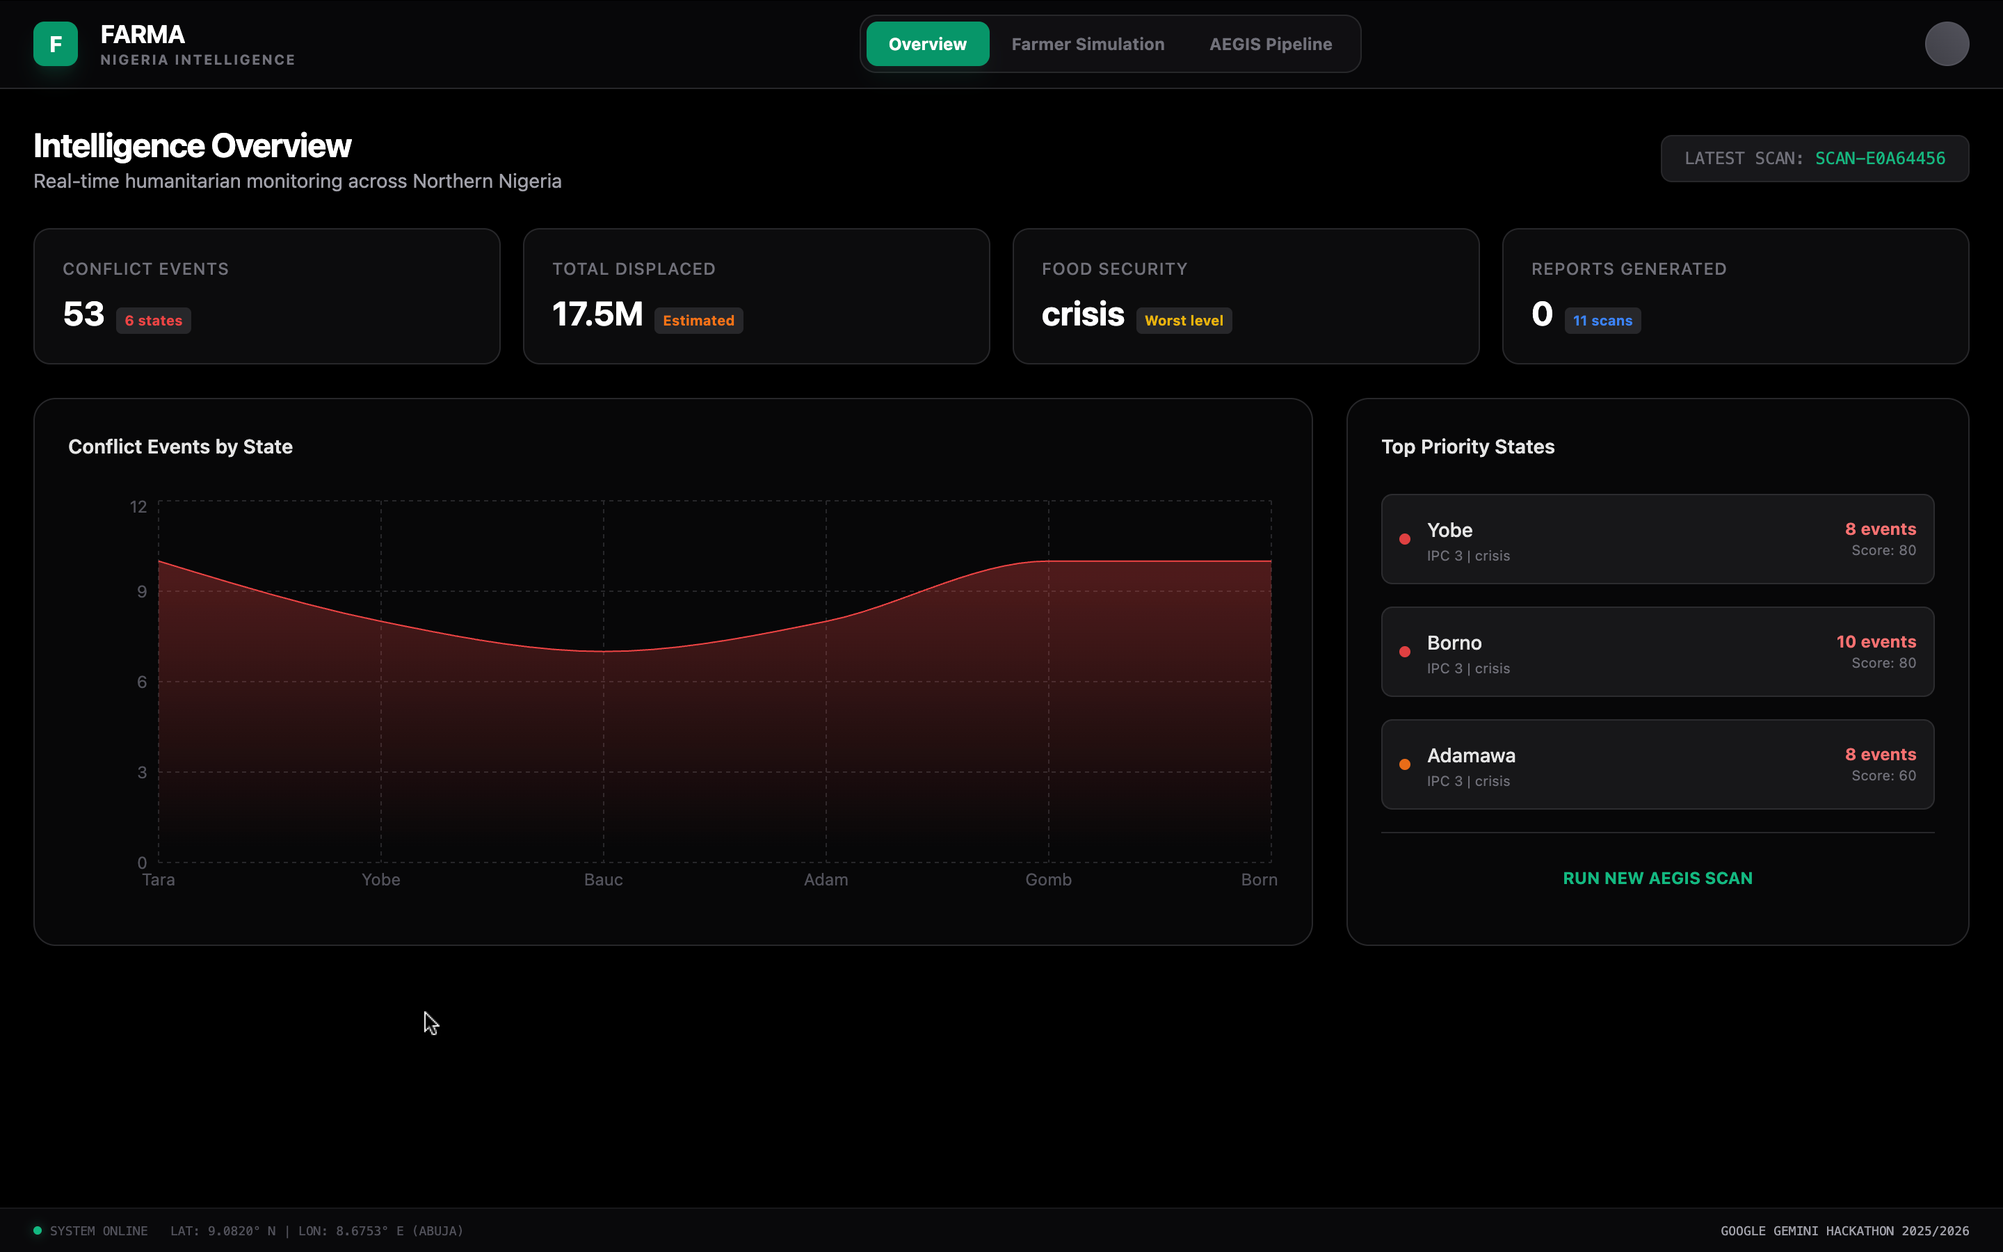
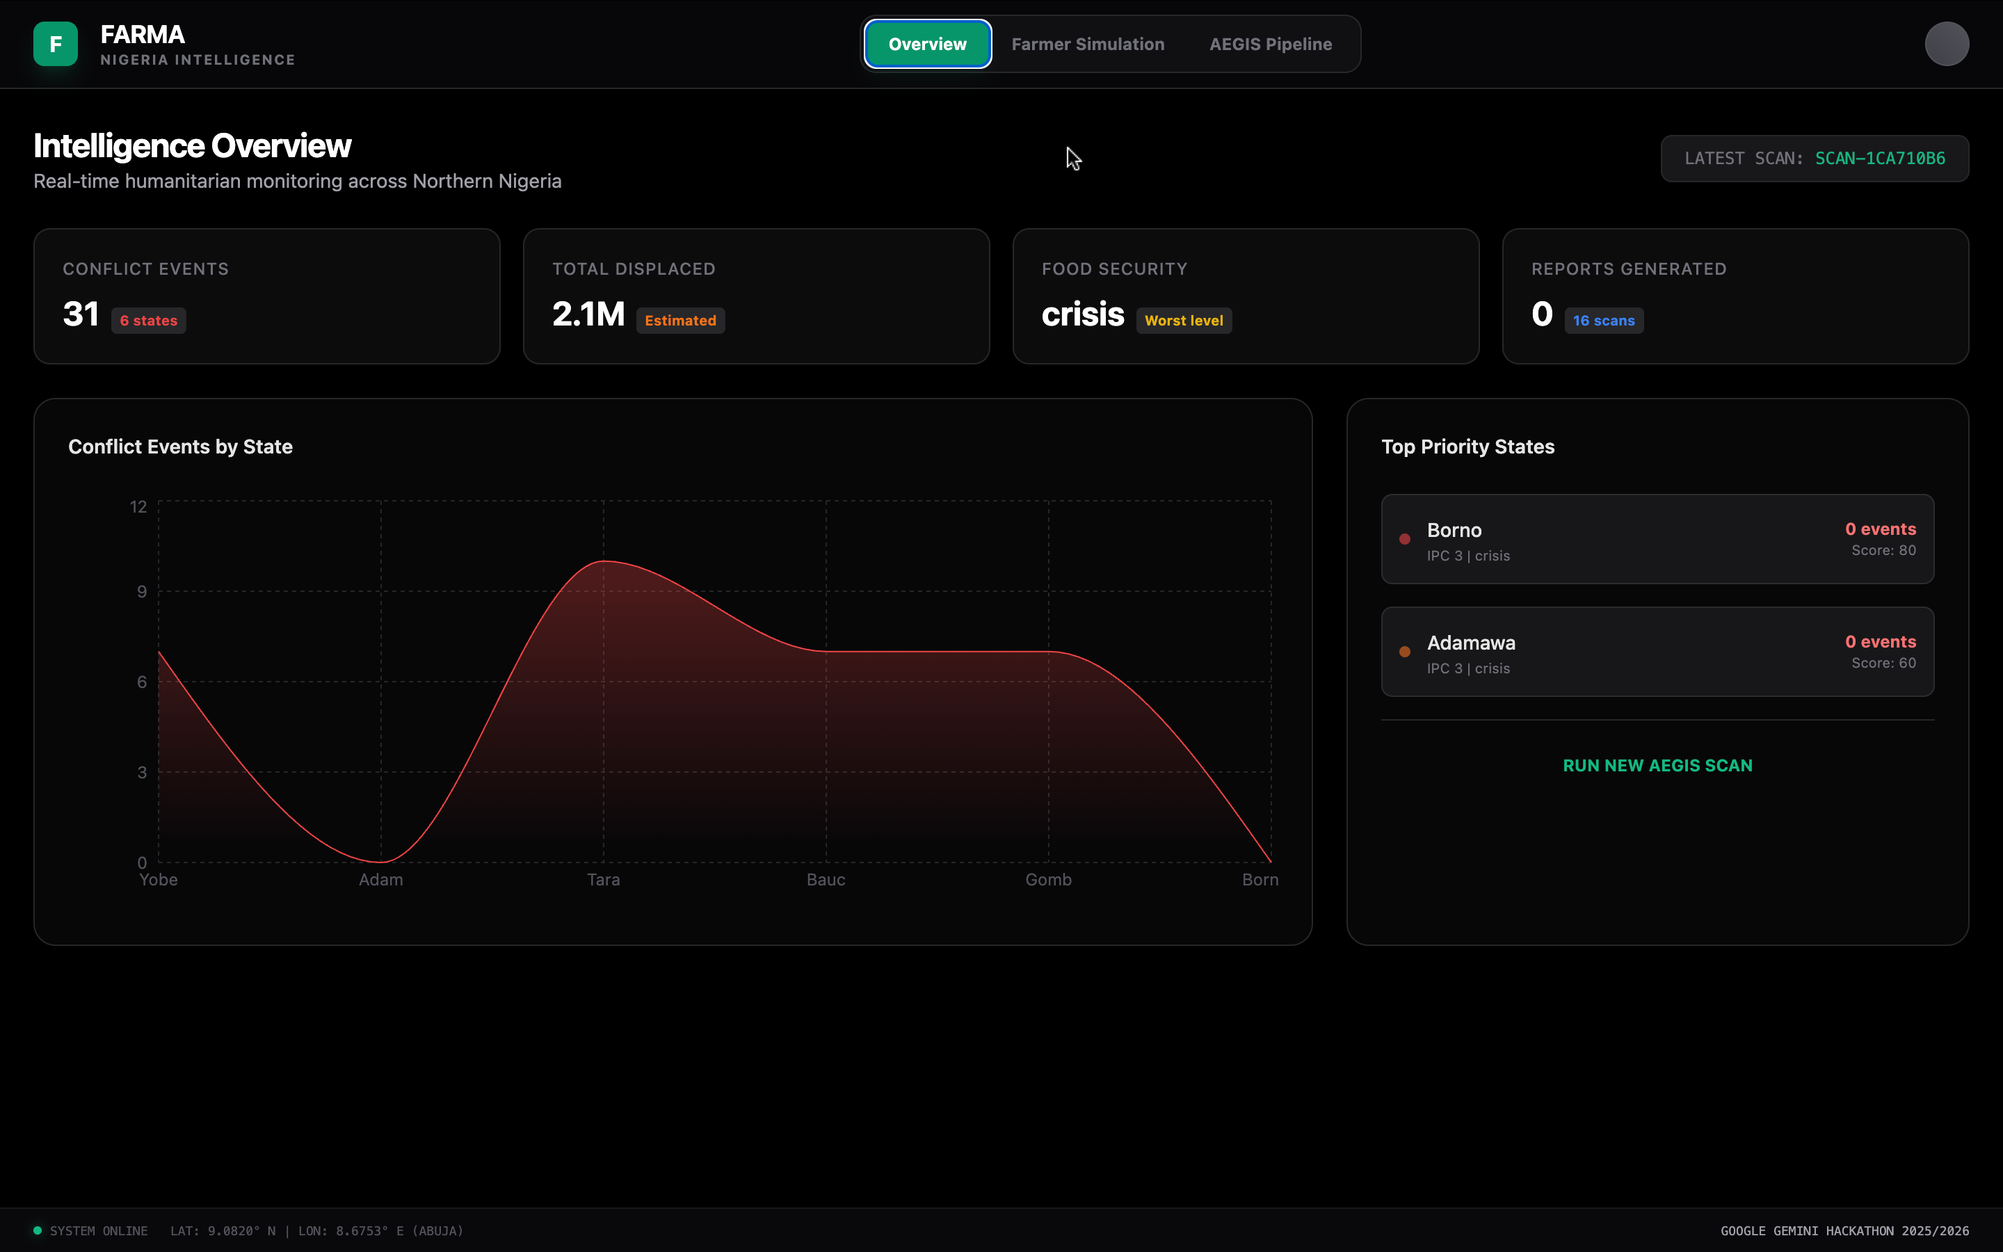
final changes

diff --git a/frontend/components/AegisPipeline.tsx b/frontend/components/AegisPipeline.tsx
@@ -21,35 +21,6 @@ function currentWeeklyDayDate() {
   return monday.toISOString().slice(0, 10);
 }
 
-function nextContinuityDayDate(
-  baseDayDate: string,
-  existingDayDates: string[],
-  stepDays: number
-): string {
-  const base = new Date(`${baseDayDate}T00:00:00Z`);
-  if (Number.isNaN(base.getTime())) {
-    return baseDayDate;
-  }
-
-  const parsed = existingDayDates
-    .map((d) => new Date(`${d}T00:00:00Z`))
-    .filter((d) => !Number.isNaN(d.getTime()))
-    .sort((a, b) => a.getTime() - b.getTime());
-
-  if (parsed.length === 0) {
-    return baseDayDate;
-  }
-
-  const latest = parsed[parsed.length - 1];
-  if (latest.getTime() >= base.getTime()) {
-    const next = new Date(latest);
-    next.setUTCDate(next.getUTCDate() + Math.max(stepDays, 1));
-    return next.toISOString().slice(0, 10);
-  }
-
-  return baseDayDate;
-}
-
 function scanWindowLabel(daysBack: number): string {
   const now = new Date();
   const end = new Date(Date.UTC(now.getUTCFullYear(), now.getUTCMonth(), now.getUTCDate()));
@@ -649,10 +620,8 @@ export const AegisPipeline: React.FC = () => {
           }
 
           const trackId = marathonTrackId || currentWeeklyTrackId();
-          let timelineSeedDays: string[] = [];
           try {
             const existing = await apiService.getMarathonTimeline(trackId);
-            timelineSeedDays = (existing.days || []).map((d) => d.day_date);
             if (existing.days && existing.days.length > 0) {
               setMarathonResults(existing);
               const latest = existing.days[existing.days.length - 1];
@@ -677,10 +646,7 @@ export const AegisPipeline: React.FC = () => {
           } catch (e) {
             console.error('Failed to load existing timeline before marathon run:', e);
           }
-          if (timelineSeedDays.length === 0 && marathonResults?.track_id === trackId) {
-            timelineSeedDays = (marathonResults.days || []).map((d) => d.day_date);
-          }
-          const dayDate = nextContinuityDayDate(currentWeeklyDayDate(), timelineSeedDays, 7);
+          const dayDate = currentWeeklyDayDate();
           setMarathonTrackId(trackId);
           const resp = await apiService.startMarathonRun(
             trackId,
@@ -1189,7 +1155,7 @@ export const AegisPipeline: React.FC = () => {
                     <div className="space-y-4">
                       <div className="flex gap-4 text-[10px] font-mono text-zinc-500">
                         <span>Track: {marathonResults.track_id}</span>
-                        <span>Weeks: {marathonResults.total_days}</span>
+                        <span>Checkpoints: {marathonResults.total_days}</span>
                         <span>Self-corrections: {marathonResults.total_self_corrections}</span>
                         <span>Actions: {marathonResults.total_actions}</span>
                       </div>
@@ -1209,7 +1175,7 @@ export const AegisPipeline: React.FC = () => {
                                 {/* Header: date + badges */}
                                 <div className="flex justify-between items-center mb-2 pl-2">
                                   <div className="flex items-center gap-2">
-                                    <span className="text-xs font-bold">Week {i + 1}</span>
+                                    <span className="text-xs font-bold">Checkpoint {i + 1}</span>
                                     <span className="text-[10px] text-zinc-500 font-mono">{entry.day_date}</span>
                                   </div>
                                   <div className="flex gap-2 flex-wrap justify-end">

diff --git a/app/api/routes/aegis.py b/app/api/routes/aegis.py
@@ -22,7 +22,7 @@ from __future__ import annotations
 
 import os
 import uuid
-from datetime import datetime, timezone
+from datetime import date, datetime, timezone
 from pathlib import Path
 from typing import Any, Optional
 
@@ -151,51 +151,6 @@ def _period_day_date(days_back: int) -> str:
         monday = now.date().fromordinal(now.date().toordinal() - now.weekday())
         return monday.isoformat()
     return now.strftime("%Y-%m-%d")
-
-
-async def _next_marathon_day_date_for_demo(
-    *,
-    track_id: str,
-    base_day_date: str,
-    days_back: int,
-) -> str:
-    """Return next day_date for demo continuity appends on same track.
-
-    Demo runs should show visible timeline growth (Day 1/2/3...) even when
-    executed repeatedly within the same week window.
-    """
-    from datetime import date, timedelta
-
-    from app.aegis.db.connection import get_async_session
-    from app.aegis.db.models import AegisMarathonDay
-    from sqlalchemy import desc, select
-
-    step_days = 7 if int(days_back) >= 7 else 1
-    try:
-        base = date.fromisoformat(str(base_day_date))
-    except Exception:
-        return str(base_day_date)
-
-    async with get_async_session() as session:
-        res = await session.execute(
-            select(AegisMarathonDay.day_date)
-            .where(AegisMarathonDay.track_id == str(track_id))
-            .order_by(desc(AegisMarathonDay.day_date))
-            .limit(1)
-        )
-        latest = res.scalar_one_or_none()
-
-    if not latest:
-        return base.isoformat()
-
-    try:
-        latest_date = date.fromisoformat(str(latest))
-    except Exception:
-        return base.isoformat()
-
-    if latest_date >= base:
-        return (latest_date + timedelta(days=step_days)).isoformat()
-    return base.isoformat()
 
 
 async def _scan_readiness_snapshot(scan_id: int) -> dict[str, Any]:
@@ -1112,8 +1067,11 @@ async def run_demo_orchestrator(
                     payload={"scan_id": scan_id},
                 )
 
-            # 5) Marathon append (agent decides downstream simulation/report actions)
+            # 5) Marathon run for current period (idempotent by track_id + day_date).
+            # Do not auto-advance to future week labels on repeated demo runs.
             latest_day_row = None
+            current_period_row = None
+            previous_period_row = None
             async with get_async_session() as session:
                 latest_res = await session.execute(
                     select(AegisMarathonDay)
@@ -1123,36 +1081,57 @@ async def run_demo_orchestrator(
                 )
                 latest_day_row = latest_res.scalar_one_or_none()
 
-            if latest_day_row and int(latest_day_row.scan_id) == int(scan_id):
-                day_date = str(latest_day_row.day_date)
-                simulation_id = str(latest_day_row.simulation_triggered or "")
-                report_id = str(latest_day_row.report_triggered or "")
+                current_res = await session.execute(
+                    select(AegisMarathonDay)
+                    .where(
+                        AegisMarathonDay.track_id == track_id,
+                        AegisMarathonDay.day_date == str(base_day_date),
+                    )
+                    .limit(1)
+                )
+                current_period_row = current_res.scalar_one_or_none()
+
+                if current_period_row is None:
+                    prev_res = await session.execute(
+                        select(AegisMarathonDay)
+                        .where(
+                            AegisMarathonDay.track_id == track_id,
+                            AegisMarathonDay.day_date < str(base_day_date),
+                        )
+                        .order_by(AegisMarathonDay.day_date.desc())
+                        .limit(1)
+                    )
+                    previous_period_row = prev_res.scalar_one_or_none()
+
+            if current_period_row is not None:
+                day_date = str(current_period_row.day_date)
+                simulation_id = str(current_period_row.simulation_triggered or "")
+                report_id = str(current_period_row.report_triggered or "")
                 marathon_result = {
-                    "actions_taken": latest_day_row.actions_taken or [],
+                    "actions_taken": current_period_row.actions_taken or [],
                     "simulation_triggered": simulation_id or None,
                     "report_triggered": report_id or None,
                 }
                 await job_store.add_event(
                     run_id,
-                    event_type="demo.marathon_skipped_same_scan",
+                    event_type="demo.marathon_skipped_existing_period",
                     status="completed",
                     step="marathon",
                     message=(
-                        f"Latest marathon entry already uses scan {scan_id}; "
+                        f"Marathon already exists for period day_date={day_date}; "
                         "continuity unchanged for this period."
                     ),
                     payload={
                         "track_id": track_id,
                         "scan_id": scan_id,
+                        "existing_scan_id": int(current_period_row.scan_id),
+                        "latest_scan_id": int(latest_day_row.scan_id) if latest_day_row else None,
+                        "base_day_date": str(base_day_date),
                         "day_date": day_date,
                     },
                 )
             else:
-                day_date = await _next_marathon_day_date_for_demo(
-                    track_id=track_id,
-                    base_day_date=base_day_date,
-                    days_back=days_back,
-                )
+                day_date = str(base_day_date)
                 marathon_run_id = f"MARA-{uuid.uuid4().hex[:8].upper()}"
                 await job_store.create_job(
                     marathon_run_id,
@@ -1179,7 +1158,11 @@ async def run_demo_orchestrator(
                     track_id=track_id,
                     day_date=day_date,
                     scan_id=int(scan_id),
-                    prev_scan_id=None,
+                    prev_scan_id=(
+                        int(previous_period_row.scan_id)
+                        if previous_period_row is not None
+                        else None
+                    ),
                     mode="manual",
                     config={
                         "model": os.getenv(
@@ -1345,7 +1328,22 @@ async def run_marathon_day_endpoint(
             )
 
     run_id = f"MARA-{uuid.uuid4().hex[:8].upper()}"
-    day_date = payload.day_date or datetime.now(timezone.utc).strftime("%Y-%m-%d")
+    today_utc = datetime.now(timezone.utc).date()
+    if payload.day_date:
+        try:
+            parsed_day_date = date.fromisoformat(str(payload.day_date))
+        except Exception:
+            raise HTTPException(status_code=422, detail="day_date must be in YYYY-MM-DD format")
+    else:
+        parsed_day_date = today_utc
+
+    if parsed_day_date > today_utc:
+        raise HTTPException(
+            status_code=422,
+            detail=f"day_date cannot be in the future (today UTC is {today_utc.isoformat()})",
+        )
+
+    day_date = parsed_day_date.isoformat()
 
     await job_store.create_job(
         run_id,

diff --git a/README.md b/README.md
@@ -3,12 +3,9 @@
 > Built for the Google Deepmind Gemini 3 Hackathon on Devpost
 
 <p align="center">
-  <strong>When 32 million people are food insecure, intelligence can't wait for Monday morning.</strong>
+  <em>A semi-autonomous marathon agent system that refreshes humanitarian intelligence daily on a rolling 7-day window, self-corrects predictions across runs, and enables smallholder farmers to access loans via SMS, powered by Gemini 3 Thought Signatures and Thinking Levels. In demo mode, continuity is presented as weekly checkpoints.</em>
 </p>
 
-<p align="center">
-  <em>A semi-autonomous marathon agent system that continuously monitors humanitarian crises across Nigerian states, self-corrects its own predictions day-over-day, and enables smallholder farmers to access loans via SMS — all powered by Gemini 3's Thought Signatures and Thinking Levels.</em>
-</p>
 
 <p align="center">
   <a href="#demo">View Demo</a> &middot;
@@ -65,7 +62,7 @@ Humanitarian intelligence directly informs financial decisions. If AEGIS detects
 
 > **The Marathon Agent**: Build autonomous systems for tasks spanning hours or days. Use Thought Signatures and Thinking Levels to maintain continuity and self-correct across multi-step tool calls without human supervision.
 
-FARMA doesn't just use the marathon agent concept — it's the architecture. The system runs weekly intelligence cycles autonomously, preserving its reasoning across days via Gemini 3's thought signatures, detecting when its own predictions were wrong, adjusting its thinking depth, and deciding when to escalate.
+FARMA doesn't just use the marathon agent concept — it's the architecture. The system refreshes intelligence daily on a rolling 7-day window, preserves reasoning continuity across runs via Gemini 3 thought signatures, detects when predictions were wrong, adjusts thinking depth, and escalates when needed. In demo presentation mode, continuity is shown as weekly checkpoints for readability.
 
 ---
 
@@ -186,19 +183,19 @@ flowchart LR
 <a id="marathon-agent"></a>
 ## The Marathon Agent — How It Actually Works
 
-This is the core innovation. Most AI systems produce one-shot outputs. FARMA's marathon agent runs continuously, remembers what it said the previous week, checks if it was right, and adjusts.
+This is the core innovation. Most AI systems produce one-shot outputs. FARMA's marathon agent runs continuously, remembers what it said on the previous run, checks if it was right, and adjusts.
 
 <img src="docs/assets/marathon.png" alt="Marathon Timeline" width="100%">
 
 ### The Continuity Loop
 
-Each week after a fresh scan, the marathon agent:
+When Marathon is triggered (demo/manual) after a fresh scan, the marathon agent:
 
 1. **Loads its previous continuity note** from the database — including last predictions
 2. **Resolves the latest scan** and retrieves fresh intelligence data
-3. **Computes deterministic deltas** — what changed between each week at every level (state risk levels, IDP counts, IPC phases, conflict events, priority rankings)
+3. **Computes deterministic deltas** — what changed between runs at every level (state risk levels, IDP counts, IPC phases, conflict events, priority rankings)
 4. **Generates a new continuity note** using Gemini 3 with extended thinking, replaying its prior thought signature for reasoning continuity
-5. **Self-corrects** — compares the last seven days predictions against the new actual data, explicitly logging where it was wrong
+5. **Self-corrects** — compares prior-run predictions against the new actual data, explicitly logging where it was wrong
 6. **Decides its own thinking depth** for the next scan — `"high"` if the situation is novel, `"medium"` if corrections were needed, `"low"` if things are stable
 7. **Autonomously triggers actions** — if it detects a significant escalation, it fires off a simulation run or emergency report without human intervention
 
@@ -208,9 +205,9 @@ Gemini 3 returns an opaque `thought_signature` with each response — a binary b
 
 - Extracts and base64-encodes the thought signature after each generation
 - Stores it in PostgreSQL alongside the continuity note
-- Replays it as prior model content in the next day's call
+- Replays it as prior model content in the next run's call
 
-This gives the agent genuine reasoning continuity across sessions. It doesn't just see the last week's output — it inherits its thinking context.
+This gives the agent genuine reasoning continuity across sessions. It doesn't just see the prior run's output — it inherits its thinking context.
 
 ### Self-Correction in Practice
 
@@ -227,7 +224,7 @@ Day 2: "SELF-CORRECTION: My prediction about Borno stabilization was
 
 ### Continuity Note Schema
 
-Every marathon day produces a structured `ContinuityNote`:
+Every marathon run produces a structured `ContinuityNote`:
 
 | Field | Purpose |
 |-------|---------|
@@ -242,7 +239,7 @@ Every marathon day produces a structured `ContinuityNote`:
 
 ### Thinking Levels — Adaptive Depth
 
-The marathon agent doesn't use the same reasoning depth every week. It dynamically selects:
+The marathon agent doesn't use the same reasoning depth every run. It dynamically selects:
 
 | Level | When Used | Effect |
 |-------|-----------|--------|
@@ -294,7 +291,7 @@ If schema-constrained generation fails, the system retries with JSON-only mode a
 
 | Layer | Technology | Purpose |
 |-------|-----------|---------|
-| **AI** | Gemini 3 Pro, Gemini 3 Flash| Reasoning, analysis, grounded search |
+| **AI** | Gemini 3 Pro, Gemini 3 Flash, Gemini 3 Image Pro| Reasoning, analysis, grounded search, infographics|
 | **Orchestration** | LangGraph | Graph-based workflow with parallel execution, conditional routing |
 | **Backend** | FastAPI (Python 3.12) | Async API with streaming job events |
 | **Database** | PostgreSQL + JSONB (Cloud Sql)| Relational structure with flexible agent output storage |
@@ -329,15 +326,13 @@ If schema-constrained generation fails, the system retries with JSON-only mode a
 
 ### Marathon Continuity Timeline
 
-- Visual timeline of daily continuity notes
+- Visual timeline of continuity checkpoints (weekly in demo view)
 - Predictions vs. self-corrections
 - Decision explanations in the agent's own words
 - Thinking level indicators showing adaptive depth
 
 ### Farmer SMS Simulation
-
-<!-- INSERT: Farmer simulation UI screenshot here -->
-<!-- <img src="docs/assets/farmer_sim.png" alt="Farmer Simulation" width="100%"> -->
+<img src="docs/assets/verification.png" alt="Farmer Simulation" width="100%">
 
 - SMS template builder for testing loan, disease, and climate flows
 - Toggle AEGIS humanitarian intelligence on/off to see its impact on loan decisions
@@ -437,7 +432,13 @@ The one-click demo orchestrator chains all 5 AEGIS stages:
 
 **Scan** → **Synthesis** → **Simulation** → **Report** → **Marathon**
 
-Each stage streams real-time progress events to the UI. The marathon stage generates a continuity note, makes predictions, and — on subsequent runs — self-corrects against its previous predictions.
+Each stage streams real-time progress events to the UI. The marathon stage generates a continuity note, makes predictions, and — on subsequent runs — self-corrects against its previous predictions. In demo mode, marathon entries are displayed as weekly checkpoints anchored to Monday.
+
+Operational note: the unattended scheduler currently runs **Scan → Synthesis → Report** daily (rolling 7-day scan window). Marathon continuity runs are currently triggered via demo/manual endpoints.
+
+- Trigger cadence: daily scheduler execution (configured UTC time).
+- Evidence window: each scheduled scan analyzes a rolling 7-day window.
+- Marathon presentation in demo: continuity is displayed as weekly checkpoints (Monday-anchored labels), while the API itself is day-keyed (`day_date`).
 
 ---
 
